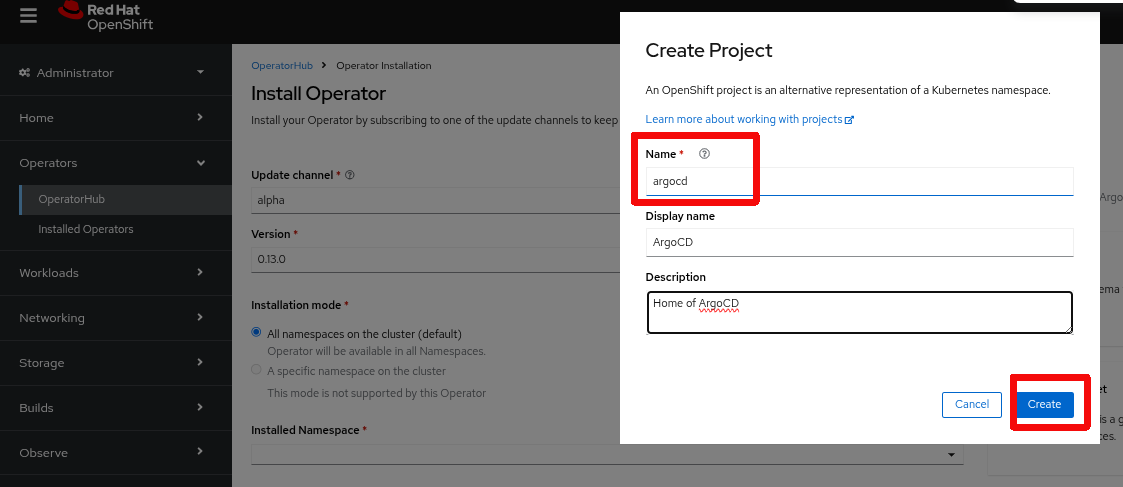
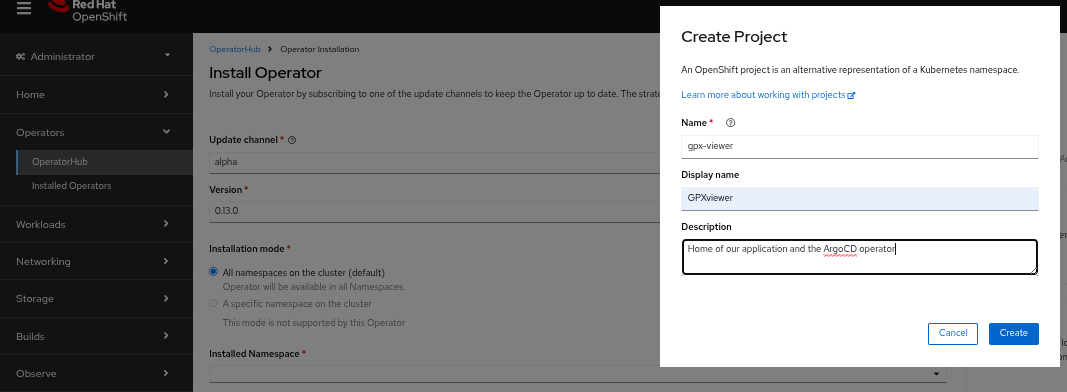
working so far - minor argoCD problems

diff --git a/docs/2-base-create-artefacts.md b/docs/2-base-create-artefacts.md
@@ -1,7 +1,9 @@
 # Create deployment artefacts
-As mentioned in the previous section [Build base app](1-base-app-build.md) this is only needed in case you want to build your own deployment artefacts. And this step is only for those who love to do things themselves.
+The previous section [Build base app](1-base-app-build.md) is only needed in case you want to test the existing deployment artefacts. 
 
-In [Build base app](1-base-app-build.md) we did build the app and the purpose of this step is to create deployment artefacts which can later be used to deploy an application via ArgoCD. ArgoCD is the GITOPS based approach and will be very easy to follow. It can even help in case of a desaster. Given that maybe somebody did delete your project/namespace by incident. We will come to this later.
+And the steps described below are only for those who love to do things themselves. Feel free to skip this step.
+
+The purpose of this procedure is to create deployment artefacts which can later be used to deploy an application via ArgoCD. ArgoCD is the GITOPS based approach and will be very easy to follow. It can even help in case of a desaster. Given that maybe somebody did delete your project/namespace by incident. We will come to this later.
 
 For now all that matters is to what makes a deployment complete. In OpenShift the following artefacts are needed:
 
@@ -15,7 +17,7 @@ For now all that matters is to what makes a deployment complete. In OpenShift th
 * deploymentconfig
 
 And all of these artefacts you could now retrieve from your current deployment.
-```oc get deployment -n gpx-viewer -o yaml``` you even iterate across all of them by using a loop ```for i in deployment secret buildconfig; do oc get $i -n gpx-viewer -o yaml; done```
+```oc get deployment -n gpx-viewer -o yaml``` you can even iterate across all of them by using a loop ```for i in deployment secret buildconfig; do oc get $i -n gpx-viewer -o yaml; done```
 
 **BUT** you will quickly notice that in all of your yaml output there is a lot of metadata which refers to stuff you would not need. So you need to clean up all the output. And you can ease your life by simply using the [script](../src/k8s-create-artefacts.sh)
 
@@ -25,7 +27,7 @@ cd src
 ./k8s-create-artefacts.sh gpx-viewer
 ```
 
-Be aware that this script use the lightweight yaml processor which comes in the yq package of your *NIX distribution ```sudo dnf install -y yq``` 
+Be aware that this script uses the lightweight yaml processor which comes in the yq package of your *NIX distribution ```sudo dnf install -y yq``` 
 
 A subdirectory k8s will be created and you find all he relevant files there. And all irrelevant metadata will be removed magically.
 

diff --git a/docs/4-argo.md b/docs/4-argo.md
@@ -2,12 +2,11 @@
 
 Why should you do so? You might ask yourself.
 
-ArgoCD is the GITOPS why to deploy your application. Not only will ArgoCD keep your deployed application synchronized with the respective branch in your repository.
-You will also be able to deploy your application from scratch in case somebody - by incident - deleted your namespace.
+ArgoCD is the GITOPS way to deploy your application. It will keep your deployed application synchronized with the respective branch in your repository.
 
 So what we will do here is
 - To create an ArgoCD instance
-- Using an S2I approach for our Node.js example
+- Using an Source2Image [S2I] approach for our Node.js example
 
 **Create an ArgoCD instance**
 
@@ -40,8 +39,11 @@ Open the link and login - as we enabled OpenShift OAuth you can use a user you a
 
 The main view of ArgoCD will open up.
 
-What we will do next is that we will create a new application. And be aware that in our OpenShift cluster there is not yet a project called gpx-viewer. All tasks will be carried out by ArgoCD.
+What we will do next is that we will create a new application.
 In case you created your own yaml artefacts as per [YAML artefact creation](./2-base-create-artefacts.md) and might did chosse another namespace name. Please change it in the ArgoCD app creation form view accordingly.
 
+What we have is a running instance of ArgoCD. And we can login to the same.
 
-|[README](../README.md)|[BACK](./3-argo.md)|[-> NEXT](../README.md)|
+A last check on your side should be that you look for the managed cluster in your setting. In case you **do not see a cluster** the rights of the user you did choose to login to ArgoCD are not sufficient. You can switch to another OpenShift user like *kubeadmin*.
+
+|[README](../README.md)|[BACK](../docs/3-argo.md)|[-> NEXT](../docs/1-base-app-build.md)|

diff --git a/docs/3-argo.md b/docs/3-argo.md
@@ -3,14 +3,16 @@
 In case you skipped the previous steps - no worries - this should work from here out of the box.
 
 We will install the application with help of ArgoCD and for this purpose we first need an ArgoCD installation.
-- We willinstall ArgoCD as operator
-- The operator will reside in the namespace which will have your app later (we do so in order to avoid RBAC and role binding difficulties)
+* We will install ArgoCD as operator
+* The operator will reside in the namespace which will have your app later (we do so in order to avoid RBAC and role binding difficulties)
+* With the operator installed in the same namespace as the application we do restict ourselves at the same time. As we will not be able to recover from an accidentially deleted namesapce 
+
 
 **Navigate in the Administrator view to the operator hub and choose ArgoCD**
 
 ![ArgoCD Operator](../images/argocd-01.png)
 
-**Chosse the ArgoCD operator**
+**Choose the ArgoCD operator**
 
 ![ArgoCD Operator](../images/argocd-02.png)
 
@@ -18,7 +20,7 @@ We will install the application with help of ArgoCD and for this purpose we firs
 
 ![ArgoCD Operator](../images/argocd-03.png)
 
-**Name the ArgoCD namespace as per your personal preferences**
+**Name the ArgoCD namespace gpx-viewer**
 
 ![ArgoCD Operator](../images/argocd-04.png)
 

diff --git a/docs/1-base-app-build.md b/docs/1-base-app-build.md
@@ -1,6 +1,10 @@
 # Build base app
 
-This step is only to be executed in case you start from scratch and thus you - at this point - miss the deployment files which you find in the folder [ArgoCD](../ArgoCD/). As said in this GIT repo everything is already prepared but this example show how the deployment files can be created in case you are not familiar with the yaml artefacts you need.
+This is the first step and the only purpose is to ckech if a manual deployment of the application does work on your cluster. Therefor the deployment artefacts are available in the root tree of this repo. And those are:
+* [server.js](../server.js)
+* [package.json](../package.json)
+
+Those files are key for your Node.js application.
 
 **Create a new project**
 

diff --git a/docs/5-argo.md b/docs/5-argo.md
@@ -1,0 +1,13 @@
+# Creating a new application in ArgoCD
+
+What we will do in this section
+
+- Add a new application in ArgoCD
+- Refer to the GIT repo and the according path to the yaml aretacts
+- Advice ArgoCD to create it in a namespace
+
+![Create an application in ArgoCD](../images/app-argo-06.png)
+
+
+
+|[README](../README.md)|[BACK](../docs/4-argo.md)|[-> NEXT](../README.md)|

diff --git a/README.md b/README.md
@@ -23,6 +23,7 @@ In the next section we will use ArgoCD to deploy our application.
 
 
 
+
 |Navigation|-|-|
 |:-------:|:-------:|:-------:|
-|[cli based approach](docs/cli.md)|dfsf|
+|[cli based approach](docs/cli.md)|--|[-> NEXT](docs/1-base-app-build.md)|
